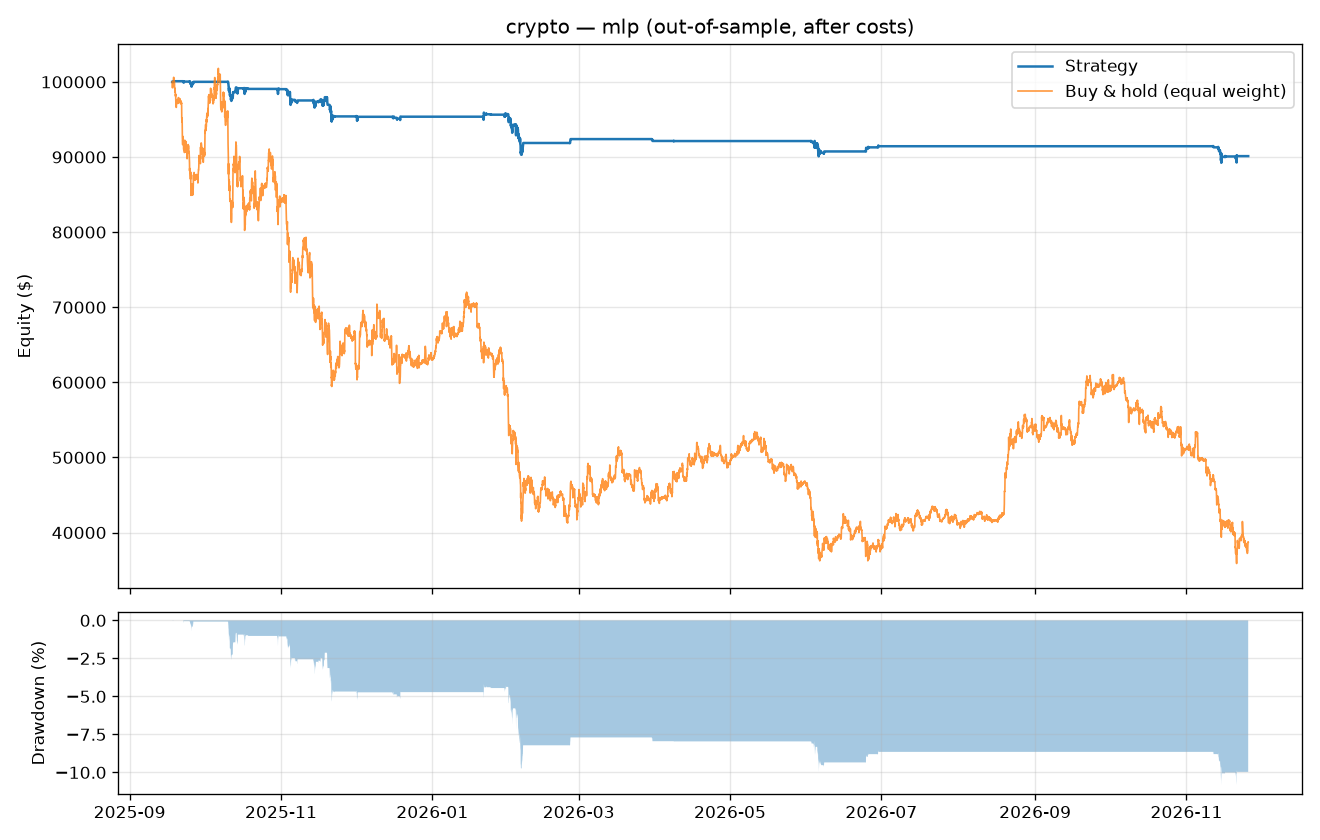
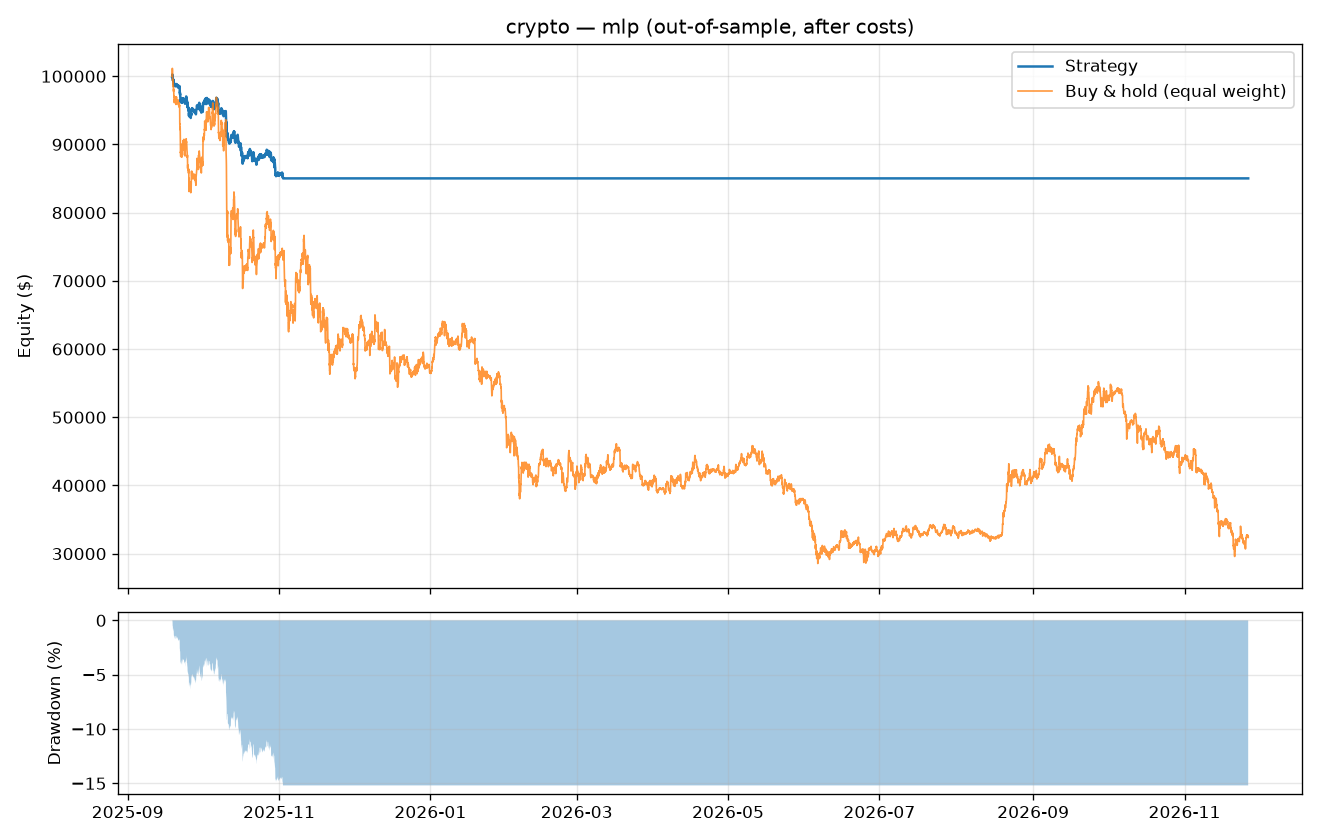
Retrain 2026-11-26

diff --git a/reports/crypto_train.md b/reports/crypto_train.md
@@ -1,0 +1,25 @@
+190861 rows, 11 symbols, 2024-12-03 to 2026-11-26
+Target: next 24 bars return > 0.60% (round-trip cost). Base rate 0.394
+
+Walk-forward: logistic []
+ fold test_start   test_end  base_rate  accuracy  always_no_acc    auc  logloss  logloss_base
+    0 2025-09-18 2025-11-30     0.3743    0.5533         0.6257 0.5126   0.6830        0.6674
+    1 2025-11-30 2026-02-10     0.3391    0.6381         0.6609 0.5524   0.6544        0.6535
+    2 2026-02-10 2026-04-23     0.4076    0.5921         0.5924 0.5898   0.6685        0.6760
+    3 2026-04-23 2026-07-05     0.3629    0.6270         0.6371 0.4641   0.6649        0.6588
+    4 2026-07-05 2026-09-15     0.3833    0.6166         0.6167 0.5097   0.6713        0.6663
+    5 2026-09-15 2026-11-26     0.3628    0.6420         0.6372 0.5209   0.6587        0.6577
+Mean AUC 0.5249  (0.5 = coin flip)   log-loss 0.6668 vs base 0.6633
+
+Walk-forward: mlp [16, 8]
+ fold test_start   test_end  base_rate  accuracy  always_no_acc    auc  logloss  logloss_base
+    0 2025-09-18 2025-11-30     0.3743    0.5866         0.6257 0.5133   0.6943        0.6674
+    1 2025-11-30 2026-02-10     0.3391    0.6388         0.6609 0.5375   0.6655        0.6535
+    2 2026-02-10 2026-04-23     0.4076    0.5935         0.5924 0.5455   0.6725        0.6760
+    3 2026-04-23 2026-07-05     0.3629    0.6227         0.6371 0.4694   0.6695        0.6588
+    4 2026-07-05 2026-09-15     0.3833    0.6167         0.6167 0.5098   0.6741        0.6663
+    5 2026-09-15 2026-11-26     0.3628    0.6348         0.6372 0.5257   0.6584        0.6577
+Mean AUC 0.5169  (0.5 = coin flip)   log-loss 0.6724 vs base 0.6633
+
+Training final model on all history...
+Saved /home/runner/work/Trader-bot/Trader-bot/state/models/crypto.npz

diff --git a/reports/stocks_train.md b/reports/stocks_train.md
@@ -1,0 +1,25 @@
+36406 rows, 11 symbols, 2025-01-03 to 2026-11-25
+Target: next 24 bars return > 0.10% (round-trip cost). Base rate 0.516
+
+Walk-forward: logistic []
+ fold test_start   test_end  base_rate  accuracy  always_no_acc    auc  logloss  logloss_base
+    0 2025-10-09 2025-12-16     0.5309    0.5111         0.4691 0.4577   0.7008        0.6932
+    1 2025-12-17 2026-02-26     0.4565    0.4871         0.5435 0.5851   0.7093        0.7075
+    2 2026-02-26 2026-05-05     0.5693    0.4967         0.4307 0.3993   0.7024        0.6856
+    3 2026-05-06 2026-07-15     0.4993    0.5246         0.5007 0.5474   0.6936        0.6958
+    4 2026-07-15 2026-09-21     0.4754    0.4644         0.5246 0.4671   0.7085        0.6991
+    5 2026-09-21 2026-11-25     0.4029    0.4696         0.5971 0.5567   0.7061        0.7050
+Mean AUC 0.5022  (0.5 = coin flip)   log-loss 0.7035 vs base 0.6977
+
+Walk-forward: mlp [16, 8]
+ fold test_start   test_end  base_rate  accuracy  always_no_acc    auc  logloss  logloss_base
+    0 2025-10-09 2025-12-16     0.5309    0.5164         0.4691 0.4915   0.6994        0.6932
+    1 2025-12-17 2026-02-26     0.4565    0.5099         0.5435 0.5904   0.6895        0.7075
+    2 2026-02-26 2026-05-05     0.5693    0.5485         0.4307 0.5251   0.6892        0.6856
+    3 2026-05-06 2026-07-15     0.4993    0.5213         0.5007 0.5606   0.6904        0.6958
+    4 2026-07-15 2026-09-21     0.4754    0.4718         0.5246 0.4714   0.7182        0.6991
+    5 2026-09-21 2026-11-25     0.4029    0.4687         0.5971 0.5111   0.7273        0.7050
+Mean AUC 0.5250  (0.5 = coin flip)   log-loss 0.7023 vs base 0.6977
+
+Training final model on all history...
+Saved /home/runner/work/Trader-bot/Trader-bot/state/models/stocks.npz

diff --git a/reports/crypto_backtest.md b/reports/crypto_backtest.md
@@ -1,0 +1,14 @@
+Backtest crypto / mlp  2025-09-18 to 2026-11-26  (enter > 0.4, exit < 0.33, cost 0.30%/side)
+                    Strategy  Buy & hold
+  total_return       -14.90%     -67.61%
+  cagr               -12.69%     -61.27%
+  sharpe               -2.13       -1.29
+  max_drawdown       -15.19%     -71.77%
+  trades                 146
+  win_rate            40.41%
+  avg_trade_return    -1.12%
+  avg_bars_held         21.4
+  time_in_market      10.26%
+  avg_exposure         2.84%
+  fees_paid           $7,669
+Chart: /home/runner/work/Trader-bot/Trader-bot/state/reports/crypto_equity_mlp.png

diff --git a/reports/stocks_backtest.md b/reports/stocks_backtest.md
@@ -1,0 +1,14 @@
+Backtest stocks / mlp  2025-10-09 to 2026-11-25  (enter > 0.4, exit < 0.33, cost 0.05%/side)
+                    Strategy  Buy & hold
+  total_return         2.45%       3.27%
+  cagr                 2.18%       2.89%
+  sharpe                0.36        0.24
+  max_drawdown        -5.25%     -15.31%
+  trades                 143
+  win_rate            48.95%
+  avg_trade_return     0.21%
+  avg_bars_held         41.0
+  time_in_market     100.00%
+  avg_exposure        29.38%
+  fees_paid           $1,423
+Chart: /home/runner/work/Trader-bot/Trader-bot/state/reports/stocks_equity_mlp.png
